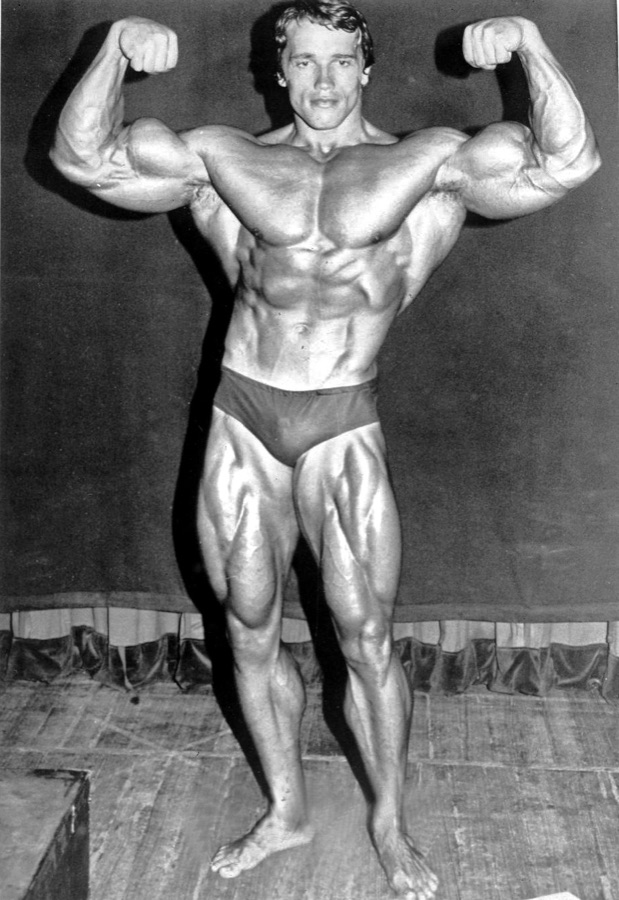
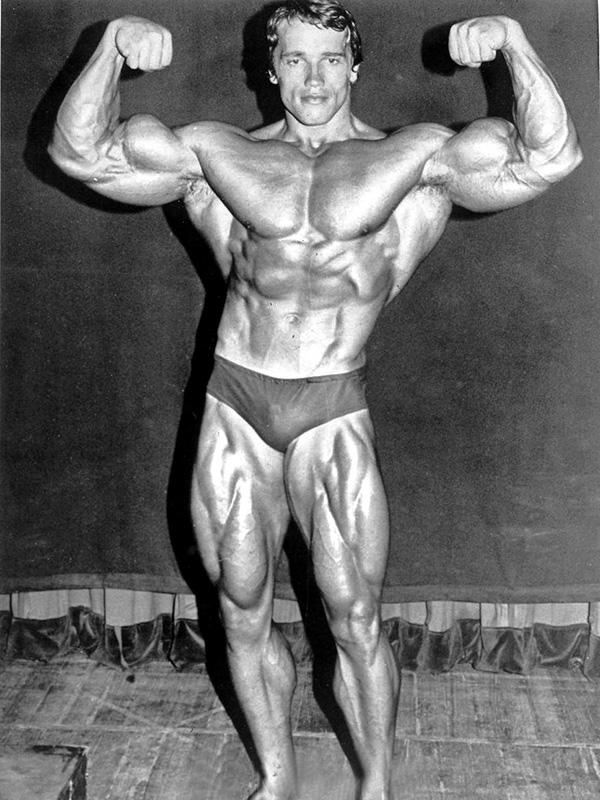
Арнольд: новое фото (двойной бицепс), фоном на постере — «Арнольд лучшие годы» с самого начала; в программе это видео играет прямо на его фото, когда карточка на экране (без звука, звук — кнопкой в углу), и встаёт на паузу при прокрутке дальше

diff --git a/src/main.js b/src/main.js
@@ -522,7 +522,7 @@ function athleteSheet(id) {
     ${a.video ? `<button class="ap-x ap-hide" type="button" aria-pressed="false">Скрыть карточку</button>` : ""}
     ${a.video ? `<button class="ap-x ap-snd" type="button" aria-label="Выключить звук" title="Звук видео" hidden>${I.vol}</button>` : ""}
     <button class="ap-x" type="button" aria-label="Закрыть">${I.x}</button>`;
-  const bg = a.video ? bgVideo(ov, a.video) : null;
+  const bg = a.video ? bgVideo(ov, a.video, !a.fromStart) : null;
   const close = () => { bg?.stop(); ov.classList.remove("on"); document.removeEventListener("keydown", key); document.documentElement.classList.remove("lb-open"); setTimeout(() => ov.remove(), 260); };
   const key = ev => { if (ev.key === "Escape") close(); };
   ov.addEventListener("click", ev => {
@@ -550,7 +550,7 @@ function hushPlayers() {
 // Видео на фоне постера: без кнопок YouTube, на весь экран, проявляется, только когда реально пошло —
 // если YouTube не грузится (без VPN), остаётся обычный постер. Звук включён: окно открыли нажатием.
 // Браузер не дал играть со звуком — играем без него, а кнопка звука рядом с крестиком включит его.
-function bgVideo(ov, id) {
+function bgVideo(ov, id, mid = true) {
   const box = ov.querySelector(".ath-bg"), btn = ov.querySelector(".ap-snd"), resume = hushPlayers();
   let p = null, dead = false, muted = false;
   const silent = () => { if (dead || !p) return; muted = true; p.mute(); p.playVideo(); paint(); };
@@ -561,7 +561,7 @@ function bgVideo(ov, id) {
       host: "https://www.youtube-nocookie.com", videoId: id,
       playerVars: { autoplay: 1, controls: 0, disablekb: 1, fs: 0, iv_load_policy: 3, loop: 1, playlist: id, playsinline: 1, rel: 0, modestbranding: 1 },
       events: {
-        onReady: e => { const d = e.target.getDuration(); if (d > 60) e.target.seekTo(Math.floor(d / 2), true); // с середины — там уже тренировка, а не заставка
+        onReady: e => { const d = e.target.getDuration(); if (mid && d > 60) e.target.seekTo(Math.floor(d / 2), true); // с середины — там уже тренировка, а не заставка (кроме fromStart)
           e.target.setVolume(ytVol()); e.target.playVideo();
           setTimeout(() => { if (!dead && p.getPlayerState?.() === -1) silent(); }, 4000); }, // старые браузеры без onAutoplayBlocked: так и не стартовало
         onAutoplayBlocked: () => silent(),
@@ -573,6 +573,38 @@ function bgVideo(ov, id) {
     sound() { if (!p) return; muted = !muted; muted ? p.mute() : (p.unMute(), p.setVolume(ytVol())); paint(); },
     stop() { dead = true; box.classList.remove("on"); setTimeout(() => p?.destroy?.(), 260); resume(); },
   };
+}
+// Видео на фото программы (Арнольд): включается без звука, когда карточка видна, и встаёт на паузу, когда уходит с экрана.
+// Звук — кнопкой в углу (нажатие разрешает браузеру играть со звуком); наша музыка тогда встаёт на паузу.
+function watchPhotoVideos() {
+  document.querySelectorAll(".prog-photo[data-video]:not([data-bound])").forEach(fig => {
+    fig.dataset.bound = "1";
+    const id = fig.dataset.video, box = fig.querySelector(".pp-vid"), btn = fig.querySelector(".pp-snd");
+    let p = null, want = false, ready = false;
+    const paintSnd = () => { const m = !p || p.isMuted(); btn.innerHTML = m ? I.volOff : I.vol; btn.setAttribute("aria-label", m ? "Включить звук" : "Выключить звук"); };
+    const make = () => ytApi().then(() => {
+      if (!fig.isConnected) return;
+      p = new window.YT.Player(box.firstElementChild, {
+        host: "https://www.youtube-nocookie.com", videoId: id,
+        playerVars: { autoplay: 1, mute: 1, controls: 0, disablekb: 1, fs: 0, iv_load_policy: 3, loop: 1, playlist: id, playsinline: 1, rel: 0, modestbranding: 1 },
+        events: {
+          onReady: e => { ready = true; want ? e.target.playVideo() : e.target.pauseVideo(); },
+          onStateChange: e => { if (e.data === 1) fig.classList.add("vid-on"); },
+        },
+      });
+    }).catch(() => {});
+    const io = new IntersectionObserver(([en]) => {
+      if (!fig.isConnected) return io.disconnect();
+      want = en.isIntersecting;
+      if (want && !p) make(); else if (ready) want ? p.playVideo() : p.pauseVideo();
+    }, { threshold: .5 });
+    io.observe(fig);
+    btn.addEventListener("click", ev => {
+      ev.stopPropagation(); if (!ready) return;
+      if (p.isMuted()) { M.audio.pause(); if (YT.playing) YT.player?.pauseVideo?.(); p.unMute(); p.setVolume(ytVol()); p.playVideo(); } else p.mute();
+      setTimeout(paintSnd, 60);
+    });
+  });
 }
 // Видео из программы — в окне поверх страницы, с обычными кнопками YouTube.
 function videoSheet(v) {
@@ -616,9 +648,9 @@ document.addEventListener("click", ev => {
   setTimeout(() => { if (scrambleNext) { scrambleNext = false; scramble(document.querySelector(".brand .brand-t")); } }, 160); // если перерисовки не было
 });
 // Легенды «Мистер Олимпия» на странице входа. Фото — Wikimedia Commons, авторы и лицензии — под формой.
-// video — тренировка с YouTube, она идёт фоном за постером (все проверены: разрешены для встраивания).
+// video — тренировка с YouTube, она идёт фоном за постером (все проверены: разрешены для встраивания); обычно с середины, fromStart — с начала.
 const ATHLETES = [
-  { id: "arnold", video: "my6IroYcyEI", src: "/img/arnold.jpg", name: "Арнольд Шварценеггер", title: "7 × «Мистер Олимпия»", pos: "50% 18%", prog: "arnold",
+  { id: "arnold", video: "Afr18IePNTQ", fromStart: true, src: "/img/arnold.jpg", name: "Арнольд Шварценеггер", title: "7 × «Мистер Олимпия»", pos: "50% 10%", prog: "arnold",
     quotes: ["Последние три-четыре повтора — вот что заставляет мышцу расти. Эта зона боли отделяет чемпиона от того, кто им не станет.",
       "Разум — вот предел. Если разум видит, что ты можешь что-то сделать, — ты сможешь, если веришь в это на все сто."],
     from: "из фильма «Качая железо», 1977",
@@ -643,7 +675,6 @@ const ATHLETES = [
 ];
 // Лицензии CC BY / CC BY-SA требуют указать авторов — список открывается по ссылке «Авторы фото».
 const ATH_CREDITS = [
-  ["Арнольд Шварценеггер", "Madison Square Garden Center, общественное достояние", "https://commons.wikimedia.org/wiki/File:Arnold_Schwarzenegger_1974.jpg"],
   ["Ронни Коулман", "localfitness.com.au, CC BY-SA 3.0", "https://commons.wikimedia.org/wiki/File:Ronnie_Coleman_8_x_Mr_Olympia_-_2009_-_4.png"],
   ["Фил Хит", "Kevin Laval, «Мистер Олимпия» 2012, CC0", "https://commons.wikimedia.org/wiki/File:Phil_Heath_Kai_Greene.JPG"],
   ["Джей Катлер", "Morten Skovgaard, CC BY 2.0", "https://commons.wikimedia.org/wiki/File:Jay_Cutler_%E2%80%93_Loaded_039_(15263347890).jpg"],
@@ -1278,6 +1309,7 @@ function coachChat() {
 const STAR_ORDER = ["arnold", "coleman", "cutler", "phil-heath", "dorian-yates", "kai-greene", "lee-priest", "frank-zane", "the-rock", "morning"];
 function programsView() {
   const p = S.profile, cur = programById(p.program_id);
+  setTimeout(watchPhotoVideos, 0);
   if (S.goProg) { const id = S.goProg; S.goProg = null; setTimeout(() => document.getElementById("prog-" + id)?.scrollIntoView({ block: "start", behavior: "smooth" }), 60); } // пришли с постера
   const card = pr => {
     const on = pr.id === p.program_id;
@@ -1285,7 +1317,8 @@ function programsView() {
     const pics = [...new Set(sessionsOf(pr).flatMap(s => s.ex.map(e => media(e.n[0])?.img)).filter(Boolean))];
     const four = Array.from({ length: 4 }, (_, k) => pics[Math.floor(k * pics.length / 4)]).filter(Boolean);
     return `<article class="prog ${on ? "on" : ""}" id="prog-${pr.id}">
-      ${pr.photo2 ? duoHTML(pr) : pr.photo ? `<figure class="prog-photo ${pr.joke ? "joke" : ""}" ${pr.joke ? `data-act="storm" data-id="${pr.id}"` : ""}>${photoSrc(pr) ? `<img src="${photoSrc(pr)}" alt="${esc(pr.photo.caption)}" loading="lazy" decoding="async" style="object-position:${pr.photo.pos || "30% 22%"}">` : ""}
+      ${pr.photo2 ? duoHTML(pr) : pr.photo ? `<figure class="prog-photo ${pr.joke ? "joke" : ""}" ${pr.joke ? `data-act="storm" data-id="${pr.id}"` : ""} ${pr.photo.video ? `data-video="${pr.photo.video}"` : ""}>${photoSrc(pr) ? `<img src="${photoSrc(pr)}" alt="${esc(pr.photo.caption)}" loading="lazy" decoding="async" style="object-position:${pr.photo.pos || "30% 22%"}">` : ""}
+          ${pr.photo.video ? `<div class="pp-vid" aria-hidden="true"><div></div></div><button class="pp-snd" type="button" aria-label="Включить звук" title="Звук видео">${I.volOff}</button>` : ""}
           <figcaption><b>${esc(pr.photo.caption)}</b>${pr.photo.credit ? `<a href="${pr.photo.link}" target="_blank" rel="noopener">${esc(pr.photo.credit)}</a>` : ""}</figcaption></figure>`
         : `<div class="prog-pics" aria-hidden="true">${four.map(src => `<img src="${src}" alt="" loading="lazy" decoding="async">`).join("")}</div>`}
       <div class="prog-head">

diff --git a/src/style.css b/src/style.css
@@ -1640,3 +1640,14 @@ html.yt-locked,html.yt-locked body{overflow:hidden}
 .ath-ov .ap-x{background:rgba(16,16,18,.5);-webkit-backdrop-filter:blur(10px);backdrop-filter:blur(10px)}
 @media (hover:hover){.ath-ov .ap-x:hover{background:rgba(40,40,44,.7)}}
 @media (max-width:520px){.ath-ov{padding-top:calc(70px + env(safe-area-inset-top,0px))}.ath-poster{height:min(calc(100dvh - 92px - env(safe-area-inset-top,0px)),660px)}}
+/* Видео на фото программы: поверх снимка, проявляется, когда пошло; подпись и затемнение — выше */
+.pp-vid{position:absolute;inset:0;overflow:hidden;opacity:0;transition:opacity .9s ease;pointer-events:none}
+.prog-photo.vid-on .pp-vid{opacity:1}
+.pp-vid iframe{position:absolute;top:50%;left:50%;width:max(100%,calc(var(--h,220px) * 16 / 9));height:max(100%,56.25cqw);border:0;transform:translate(-50%,-50%) scale(1.2);filter:grayscale(.75) contrast(1.12) brightness(.9)}
+.prog-photo[data-video]{container-type:inline-size}
+.pp-snd{position:absolute;top:12px;right:12px;z-index:2;display:grid;place-items:center;width:40px;height:40px;padding:0;border:0;border-radius:50%;background:rgba(16,16,18,.5);-webkit-backdrop-filter:blur(10px);backdrop-filter:blur(10px);color:#fff;opacity:0;transition:opacity var(--t2) ease,background-color var(--t2) ease}
+.pp-snd svg{width:18px;height:18px}
+.prog-photo.vid-on .pp-snd{opacity:1}
+@media (hover:hover){.pp-snd:hover{background:rgba(40,40,44,.7)}}
+@media (min-width:760px){.prog-photo[data-video]{--h:300px}}
+@media (prefers-reduced-motion: reduce){.pp-vid{transition:none}}

diff --git a/src/programs.js b/src/programs.js
@@ -433,7 +433,7 @@ PROGRAMS.push(
     defaultDays: [0, 1, 2, 3, 4, 5],
     place: "зал",
     about: "Шесть тренировок в неделю по знаменитому сплиту Арнольда: грудь со спиной, плечи с руками, ноги — и по кругу ещё раз. Грудь и спину он качал вместе, чередуя жим и тягу почти без отдыха. Объём огромный, это схема для опытных: новичку лучше начать с «Верх / низ».",
-    photo: { src: "/img/arnold.jpg", caption: "Арнольд Шварценеггер — 7 раз «Мистер Олимпия»", credit: "Фото: Madison Square Garden Center, общественное достояние", link: "https://commons.wikimedia.org/wiki/File:Arnold_Schwarzenegger_1974.jpg", pos: "50% 18%" },
+    photo: { src: "/img/arnold.jpg", caption: "Арнольд Шварценеггер — 7 раз «Мистер Олимпия»", pos: "50% 12%", video: "Afr18IePNTQ" }, // video — играет на фото, когда карточка на экране
     diet: {
       goal: "mass",
       how: [
